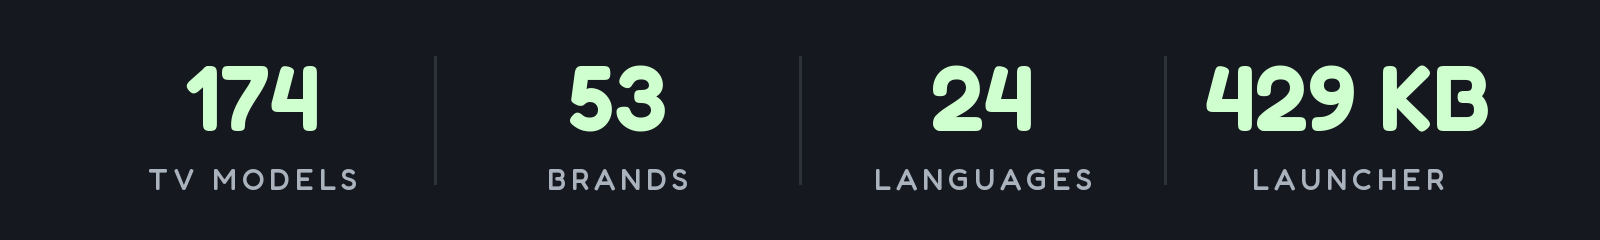
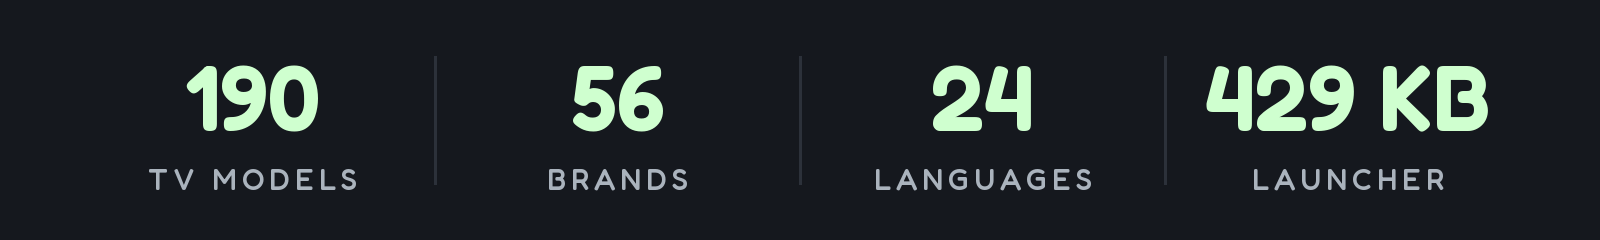
README: counts and card after the 21 Oct batch (190 TV models, 56 brands)
Main TV table rows for the new lists use the same TV cell as examples/README; the brand line adds Caxium, Noblex and OK., and counts the Coocaa K3 Pro under Skyworth.

Changed region(s): [[0.125, 0.2625, 0.2188, 0.5542], [0.3438, 0.2625, 0.4375, 0.5542]]

diff --git a/tools/readme_stats.py b/tools/readme_stats.py
@@ -5,7 +5,7 @@ and rebuild the card with tools/readme_card.py. Fredoka is the variable TTF from
 import sys
 from PIL import Image, ImageDraw, ImageFont
 FONT, OUT = sys.argv[1], sys.argv[2]
-STATS = [("174", "TV MODELS"), ("53", "BRANDS"), ("24", "LANGUAGES"), ("429 KB", "LAUNCHER")]
+STATS = [("190", "TV MODELS"), ("56", "BRANDS"), ("24", "LANGUAGES"), ("429 KB", "LAUNCHER")]
 W, H = 1600, 240
 img = Image.new("RGB", (W, H), "#15181e"); d = ImageDraw.Draw(img)
 def f(size, wt):

diff --git a/README.md b/README.md
@@ -18,7 +18,7 @@
 </p>
 
 <p align="center">
-  <a href="docs/PRESS.md"><img src="docs/card.jpg" alt="174 TV models · 53 brands · 24 languages · 429 KB launcher. Featured in TechCrunch, TechRadar, Tom's Guide, Mashable, Android Authority, XDA, FlatpanelsHD, It's FOSS, Phandroid, GIGAZINE, Xataka, WinFuture, Frandroid, Macitynet, Techaeris, TechPP and 63 more: 79 articles from 22 countries. Before: stock Google TV home with a sponsored ad. After: the Clean Your TV launcher." width="800"></a>
+  <a href="docs/PRESS.md"><img src="docs/card.jpg" alt="190 TV models · 56 brands · 24 languages · 429 KB launcher. Featured in TechCrunch, TechRadar, Tom's Guide, Mashable, Android Authority, XDA, FlatpanelsHD, It's FOSS, Phandroid, GIGAZINE, Xataka, WinFuture, Frandroid, Macitynet, Techaeris, TechPP and 63 more: 79 articles from 22 countries. Before: stock Google TV home with a sponsored ad. After: the Clean Your TV launcher." width="800"></a>
 </p>
 
 **The viral tweet:** [x.com/gathint/status/2111379569030939102](https://x.com/gathint/status/2111379569030939102)
@@ -98,13 +98,12 @@ Anything running **Android TV** or **Google TV**.
 
 Tested lists from contributors, one folder per model in [`examples/`](examples/):
 
-**TCL** 40 · **Sony** 22 · **Xiaomi** 22 · **Philips** 10 · **Hisense** 7 · **Amazon Fire TV** 6 ·
-**TCL** 40 · **Sony** 22 · **Xiaomi** 24 · **Philips** 10 · **Hisense** 7 · **Amazon Fire TV** 5 ·
-**Panasonic** 3 · **Skyworth** 3 · **Thomson** 3 · **BenQ** 2 · **CHiQ** 2 · **Google** 2 · **Haier** 2 · **Hitachi** 2 ·
+**TCL** 43 · **Xiaomi** 24 · **Sony** 23 · **Philips** 10 · **Hisense** 8 · **Skyworth** 7 · **Amazon Fire TV** 6 ·
+**Panasonic** 3 · **Thomson** 3 · **BenQ** 2 · **CHiQ** 2 · **FFalcon** 2 · **Google** 2 · **Haier** 2 · **Hitachi** 2 ·
 **Kalley** 2 · **NVIDIA Shield** 2 · **OnePlus** 2 · **onn** 2 · **Redmi** 2 · **Toshiba** 2 · **Vu** 2 ·
-AiPro2K · AIWA · Artel · Cecotec · Challenger · Compac · Dialog · EKO · FFalcon · Freebox · Insignia Fire TV ·
-JVC · Karbonn · Kogan · Motorola · MTC · Polytron · PRISM+ · RCA · Sankey · SANYO · SHARP · Tele System · Verizon ·
-Vidda · Vision ·
+AiPro2K · AIWA · Artel · Caxium · Cecotec · Challenger · Compac · Dialog · EKO · Freebox · Insignia Fire TV · JVC ·
+Karbonn · Kogan · Motorola · MTC · Noblex · OK. · Polytron · PRISM+ · RCA · Sankey · SANYO · SHARP · Tele System ·
+Verizon · Vidda · Vision ·
 BYINTEK, JMGO, Portronics, Stellamore, Wanbo and XGIMI projectors
 
 <details>
@@ -135,7 +134,7 @@ BYINTEK, JMGO, Portronics, Stellamore, Wanbo and XGIMI projectors
 | Dialog ViU (SEI Robotics SEI103DL, Amlogic, NES middleware), Sri Lanka | Android TV 9 |
 | EKO 2K Google TV (MTC-built, tennoji, MediaTek mt5867 / T56) | Google TV 14 |
 | FFalcon (雷鸟) 鹤6 PRO 65S585C Pro (China, tcl_mt5879_cn, MediaTek MT9653) | Android TV 11 |
-| FFalcon (雷鸟) r34a0, China (Amlogic T920, 1 GB; debloat only, via `pm hide`) | Android 5.1.1 |
+| FFalcon (雷鸟) r34a0, China (V8-A920T01-LF1V147, Amlogic T920), 1 GB | Android 5.1.1 |
 | Freebox Player POP (Free, fbx8am, Amlogic), IPTV/DVB-T box | Android TV 10 |
 | Google TV Streamer 4K (kirkwood, GZRNL) | Google TV 14 |
 | Haier Android TV DVB2K (broadway, HaierATVT56DVB) | Android TV 11 |
@@ -190,7 +189,7 @@ BYINTEK, JMGO, Portronics, Stellamore, Wanbo and XGIMI projectors
 | Sankey SMART2KTVSE (Whale OS, SiliconPlayer am30bm) | Android TV 13 |
 | SHARP AQUOS TVE21F (AQUOS-TVE21F, banqiao, CVTE/MediaTek), UK | Android TV 14 |
 | Skyworth / Coocaa 8R40_K5C (Realtek rtd285x, 1 GB, 32-bit), China domestic firmware | Android 8.0 (not Google TV) |
-| Skyworth 65A3F (7T641_A3F, MediaTek MT9633), China, Coocaa firmware without GMS | Android 13 (CCOS) |
+| Skyworth 65A3F (7T641_A3F, MediaTek MT9633), China | Android 13 (CCOS 10.01.250328) |
 | Skyworth Coocaa K3 Pro 90P3D Max (8R145_P3DM, Realtek RTD2885N), China market | Android 11 (Coocaa OS) |
 | Skyworth SW-22SA (SW6H, MediaTek), ~1.9 GB | Android TV 14 (Google TV home) |
 | Skyworth SWTV-21AE (sunnyvale, MediaTek) | Android TV 14 |
